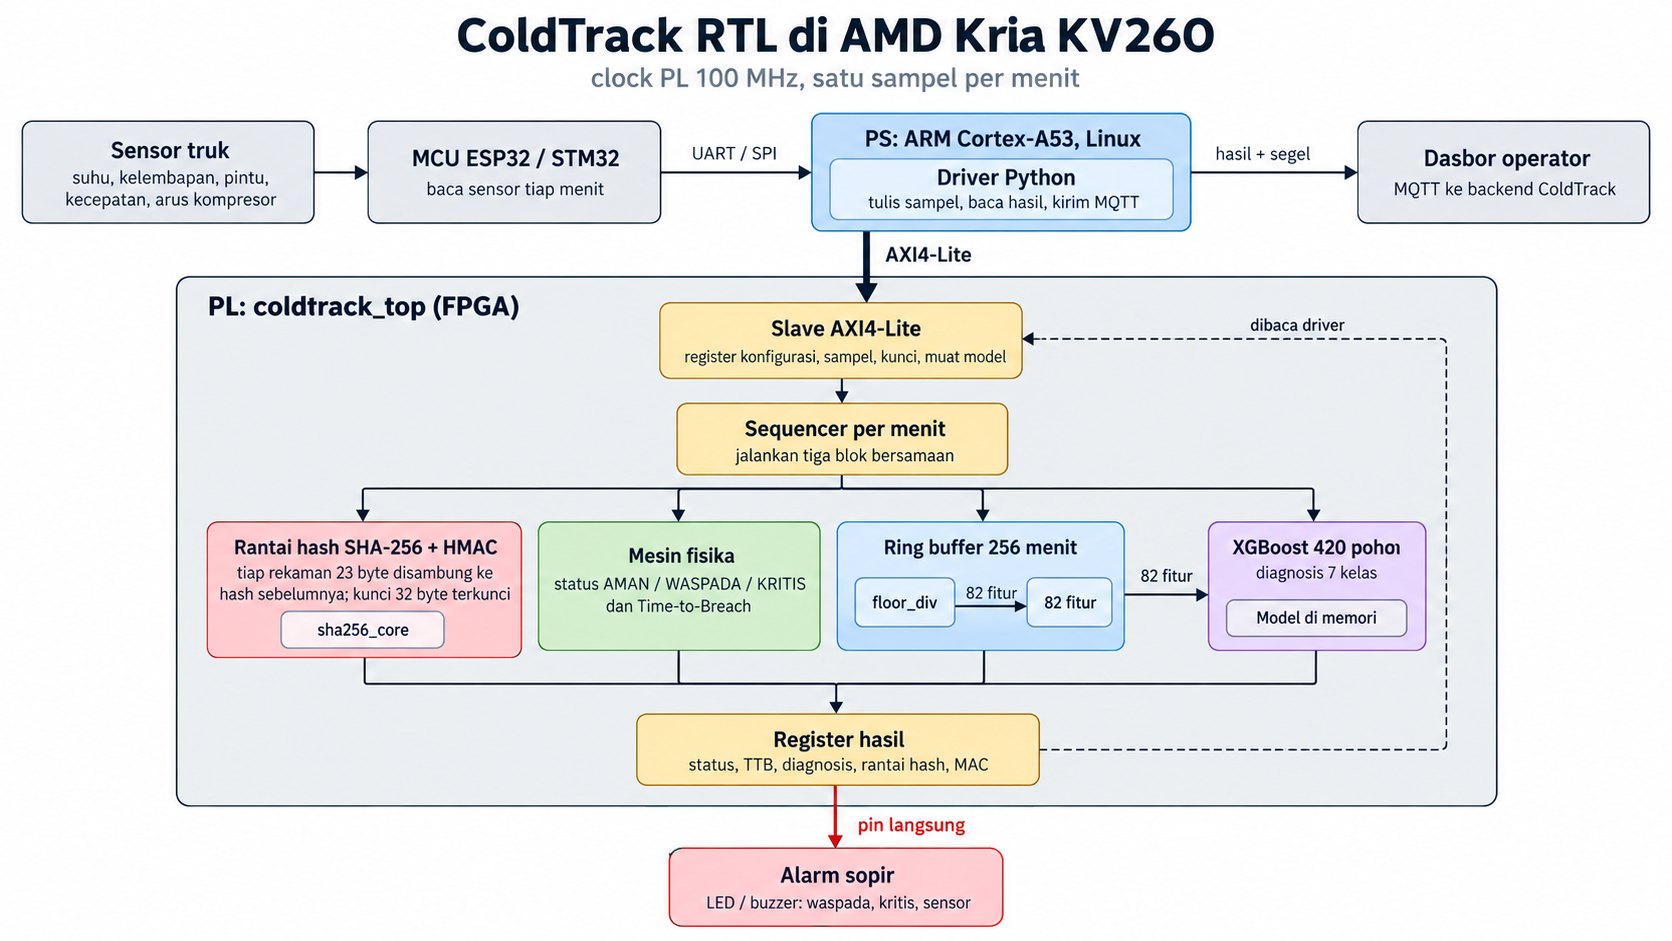
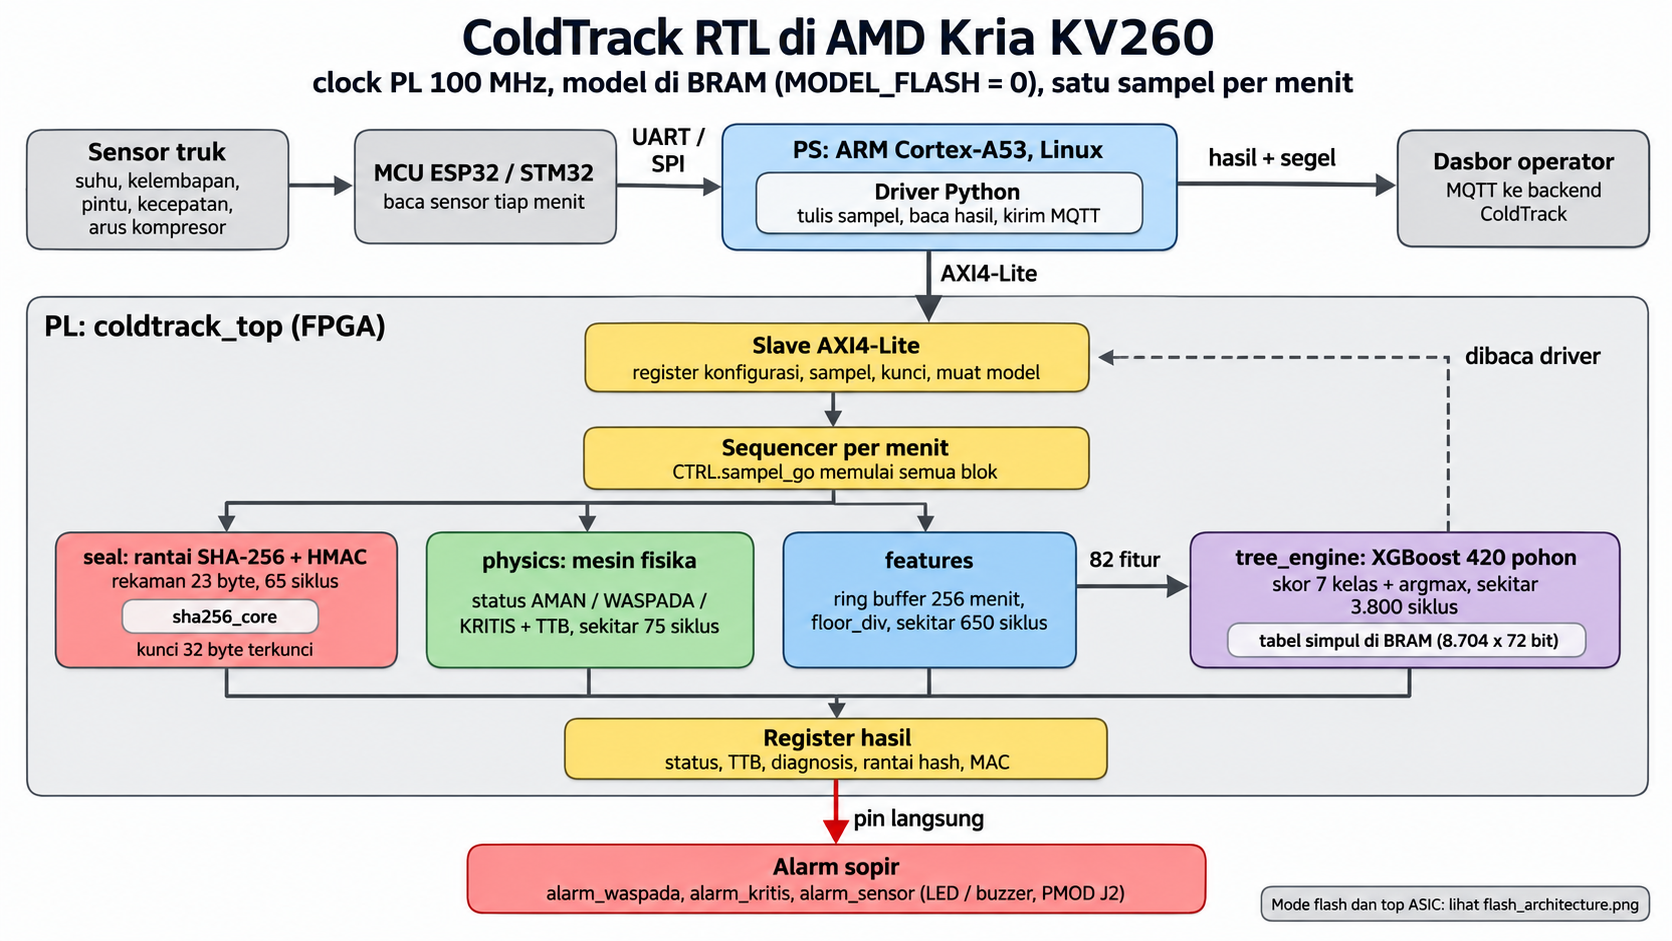
docs(hw): README root dan hw dirapikan, diagram arsitektur KV260 dan mode flash baru
README root memuat bagian chip ASIC SKY130 dan tautan Release asic-v1.0. Gambar
penempatan dan wrapper dipindah ke hw/asic/xgboost/figures dengan nama berbahasa Inggris.
Diagram mode flash dan top ASIC (coldtrack_spi) ditambahkan di hw/docs.

diff --git a/hw/README.md b/hw/README.md
@@ -1,9 +1,9 @@
 # ColdTrack RTL
 
-Chip ColdTrack untuk truk: segel data sensor (rantai SHA-256 + HMAC), mesin fisika (status
-AMAN/WASPADA/KRITIS + TTB), dan diagnosis tree ensemble (XGBoost 420 pohon), di belakang slave AXI4-Lite
-untuk ARM pada AMD Kria KV260. RTL ditulis dalam subset SystemVerilog tanpa primitive vendor, jadi bisa
-disintesis Vivado maupun Yosys.
+RTL chip ColdTrack untuk truk, diakses ARM pada AMD Kria KV260 lewat slave AXI4-Lite. Chip ini menyegel data
+sensor dengan rantai SHA-256 dan HMAC, menghitung status AMAN/WASPADA/KRITIS dan TTB dengan mesin fisika, dan
+mendiagnosis penyebab dengan XGBoost 420 pohon. RTL ditulis dalam subset SystemVerilog tanpa primitive vendor,
+sehingga bisa disintesis dengan Vivado maupun Yosys.
 
 | Folder | Isi |
 |---|---|
@@ -11,11 +11,12 @@ disintesis Vivado maupun Yosys.
 | `tb/` | Testbench cocotb (`test_*.py`), dijalankan lewat pytest |
 | `golden/` | Model acuan Python bilangan bulat; RTL harus sama bit per bit dengan model ini |
 | `scripts/` | Ekspor model XGBoost beku ke berkas memori; vektor uji hasil edge untuk backend; inventaris memori per mode (`asic_mem.py`) |
-| `driver/` | Driver: `chip.py` (`ChipAxi` lewat `/dev/mem` untuk KV260, `ChipSpi` lewat `spidev` untuk chip ASIC, keduanya belum diuji di perangkat; `ChipGolden` identik bit per bit dengan RTL) dan `edge_driver.py` (sampel ke chip, kirim bacaan + hasil tersegel lewat MQTT) |
+| `driver/` | `chip.py` (`ChipAxi` lewat `/dev/mem` untuk KV260 dan `ChipSpi` lewat `spidev` untuk chip ASIC, keduanya belum diuji di perangkat; `ChipGolden` identik bit per bit dengan RTL) dan `edge_driver.py` (kirim sampel ke chip, lalu kirim bacaan dan hasil tersegel lewat MQTT) |
+| `asic/` | Versi ASIC SKY130: RTL pengganti, layout LibreLane, wrapper Caravel ([`asic/README.md`](asic/README.md)) |
 | `model/` | Hasil ekspor: `nodes.mem`, `trees.mem`, `base.mem` per model, plus `flash.bin` dan `flash.sha256` untuk mode flash |
 | `bd/` | Pembungkus Verilog AXI4-Lite (`coldtrack_axil.v`) untuk block design Vivado + pin alarm PMOD |
 | `synth/` | Skrip Yosys (perkiraan) dan Vivado (implementasi out-of-context, block design KV260, laporan) |
-| `docs/` | Gambar arsitektur (`rtl_architecture.png`) dan block design Vivado (`vivado_block_design.png`/`.svg`) |
+| `docs/` | Gambar arsitektur KV260 (`rtl_architecture.png`), arsitektur mode flash dan top ASIC (`flash_architecture.png`), dan block design Vivado (`vivado_block_design.png`/`.svg`) |
 | `results/` | Laporan paritas golden vs float (JSON) dan laporan Vivado (`results/vivado/`) |
 
 ## Arsitektur
@@ -56,16 +57,18 @@ desimal membuat kelipatan 0,1 C data latih eksak, karena ambang pohon XGBoost se
 | M10 | `coldtrack_spi` (top ASIC: SPI + flash) | uji M9 diulang lewat SPI pada SCK = clk/8 (batas terburuk): 150 menit identik; frame yang terputus diabaikan |
 | M10 | Sapuan SPI (`tb/test_spi_sweep.py`) | 13 kecepatan x 4 offset fase, 8 ronde baca-tulis tiap konfigurasi: nol kesalahan sampai clk/3, gagal semua di clk/2,5 dan clk/2 (`results/spi_sweep.json`) |
 
-Catatan dari verifikasi: aturan "pintu terbuka, sisa waktu terburuk <= 30 menit" (alasan 4) di `engine.py`
-tidak pernah bisa menentukan status. Saat pintu terbuka kabin = max(ts10, suhu luar) >= suhu luar dan
-(x - t_hi)/(x - Tc) naik terhadap x, sehingga TTB biasa selalu <= TTB kasus terburuk dan aturan TTB lebih
-dulu memicu dengan status yang sama atau lebih tinggi. RTL tetap memuat aturan itu agar setara backend.
+Verifikasi menemukan bahwa aturan "pintu terbuka, sisa waktu terburuk <= 30 menit" (alasan 4) di `engine.py`
+tidak pernah menentukan status. Saat pintu terbuka, kabin = max(ts10, suhu luar) >= suhu luar dan
+(x - t_hi)/(x - Tc) naik terhadap x. Akibatnya TTB biasa selalu <= TTB kasus terburuk, dan aturan TTB lebih dulu
+memicu dengan status yang sama atau lebih tinggi. RTL tetap memuat aturan itu agar setara dengan backend.
 
 ## Mode flash untuk ASIC
 
 Di ASIC tidak ada BRAM, dan tabel simpul pohon (8.704 x 72 bit = 76,5 KiB) adalah bagian terbesar chip. Karena
 isinya konstanta, `MODEL_FLASH = 1` memindahkannya ke flash QSPI eksternal. Bawaannya tetap `MODEL_FLASH = 0`
 (BRAM), jadi build KV260 dan semua angka Vivado di bawah tidak berubah.
+
+![Mode flash dan top ASIC coldtrack_spi](docs/flash_architecture.png)
 
 ```
 coldtrack_top (MODEL_FLASH = 1)
@@ -77,16 +80,16 @@ coldtrack_top (MODEL_FLASH = 1)
                      status fisika, TTB, alarm, dan segel tetap jalan
 ```
 
-- **Image flash** (`golden/flash_image.py`): header, base score, lalu per pohon satu rekaman kepala dan
+- Image flash (`golden/flash_image.py`) berisi header dan base score, lalu per pohon satu rekaman kepala diikuti
   simpulnya. Format simpul sama dengan `nodes.mem`. Syarat aliran (simpul satu pohon berurutan, anak selalu
   sesudah induk) dicek saat ekspor. Model sekarang: 78.714 byte (#8) dan 80.172 byte (#7).
-- **Waktu:** satu inferensi membaca seluruh image, 316.313 siklus (3,2 ms pada 100 MHz dengan SCK 50 MHz).
-  Waktunya tetap, tidak bergantung pada kedalaman pohon. Jeda antar sampel 60 detik.
-- **HASH_MODEL** ditanam saat sintesis dari `model/<nama>/flash.sha256`. Ganti model berarti ganti hash, jadi
-  untuk prototipe model ikut terkunci di chip. Agar model bisa diperbarui di lapangan dibutuhkan tanda tangan
-  digital (kunci publik di chip), yang belum dibuat.
-- **Flash:** bit QE harus diset saat flash diprogram. `qspi_io_o`/`qspi_io_oe`/`qspi_io_i` disambungkan ke
-  penyangga tiga keadaan di pad.
+- Satu inferensi membaca seluruh image dalam 316.313 siklus (3,2 ms pada 100 MHz dengan SCK 50 MHz). Waktunya
+  tetap berapa pun kedalaman pohonnya, dan jeda antar sampel 60 detik.
+- `HASH_MODEL` ditanam saat sintesis dari `model/<nama>/flash.sha256`. Ganti model berarti ganti hash, jadi di
+  RTL ini model ikut terkunci di chip. Versi ASIC (`hw/asic/xgboost`) menggantinya dengan tag HMAC, sehingga
+  model baru yang ditandai kunci yang benar bisa dipasang tanpa chip baru.
+- Bit QE flash harus diset saat flash diprogram. `qspi_io_o`/`qspi_io_oe`/`qspi_io_i` disambungkan ke penyangga
+  tiga keadaan di pad.
 
 ### Antarmuka SPI (top ASIC `coldtrack_spi`)
 
@@ -99,8 +102,8 @@ mengaksesnya lewat 4 pin SPI. Total pin chip: clk, rst_n, SPI 4, QSPI 6, alarm 3
 | Tulis, 6 byte | `{1, 000, alamat[11:0]}` + data 32 bit | diabaikan |
 | Baca, 7 byte | `{0, 000, alamat[11:0]}` + 1 byte dummy + 4 byte bebas | data 32 bit di 4 byte terakhir |
 
-- SCK, CS, dan MOSI dicuplik clk chip lewat sinkroniser 2 FF, jadi **SCK paling cepat clk/8** (12,5 MHz pada
-  100 MHz, 6,25 MHz pada 50 MHz). Data ColdTrack sekitar 150 byte per menit, jadi batas ini tidak terasa.
+- SCK, CS, dan MOSI dicuplik clk chip lewat sinkroniser 2 FF, jadi SCK paling cepat clk/8 (12,5 MHz pada
+  100 MHz, 6,25 MHz pada 50 MHz). Data ColdTrack hanya sekitar 150 byte per menit, jauh di bawah batas ini.
 - Sapuan simulasi (`tb/test_spi_sweep.py`, termasuk rasio pecahan dan 4 offset fase) bebas kesalahan sampai
   clk/3 dan gagal mulai clk/2,5: MISO berganti 2 sampai 3 clk setelah tepi naik SCK, jadi satu periode SCK harus
   lebih dari sekitar 3 clk. Simulasi tidak memodelkan delay pad, jalur PCB, jitter, dan metastabilitas, jadi
@@ -122,7 +125,7 @@ Inventaris memori (`python -m hw.scripts.asic_mem`, Yosys `memory -nomap`, tanpa
 | ROM konstanta (tabel K SHA-256, konstanta fisika) | 0,3 KiB | 0,5 KiB |
 
 Mode flash memakai inti SHA-256 kedua untuk hash image, jadi tabel K ada dua. Inti ini bisa dibagi dengan
-`seal` bila luas logika perlu dihemat. Luas ASIC sebenarnya baru diketahui setelah sintesis dengan PDK.
+`seal` bila luas logika perlu dihemat. Luas hasil layout SKY130 ada di `hw/asic/xgboost/README.md`.
 
 ## Vivado KV260 (post-route, model #8)
 
@@ -139,10 +142,10 @@ UG1089 sebelum dipakai).
 | BRAM36 | 20 | 13,9 % |
 | DSP | 74 | 5,9 % |
 
-Tabel simpul `tree_engine` (8.704 x 72) memakai 18 BRAM dan ring buffer `features` (256 x 111) 2 BRAM.
-Sebelumnya keduanya jatuh ke LUTRAM (27.248 LUT, 12.069 sebagai memori) karena register baca BRAM diserap
-primitif lain: `simpul_q` menjadi register alamat LUTRAM `fitur`, `rd_q` menjadi register masukan DSP. Kini
-ada satu register tambahan di depan keduanya dan `rd_q` diberi `keep`.
+Tabel simpul `tree_engine` (8.704 x 72) memakai 18 BRAM dan ring buffer `features` (256 x 111) 2 BRAM. Agar
+Vivado memetakannya ke BRAM, ada satu register tambahan di depan keduanya dan `rd_q` diberi `keep`. Tanpa itu,
+register baca BRAM diserap primitif lain (`simpul_q` menjadi register alamat LUTRAM `fitur`, `rd_q` menjadi
+register masukan DSP), dan kedua memori jatuh ke LUTRAM: 27.248 LUT, 12.069 di antaranya sebagai memori.
 
 Timing `coldtrack_top` out-of-context per frekuensi (`synth/kv260_vivado.tcl`, laporan di
 `results/vivado/sweep/`). Daya adalah logika PL saja; daya total block design (termasuk PS) 2,86 W.
@@ -154,9 +157,10 @@ Timing `coldtrack_top` out-of-context per frekuensi (`synth/kv260_vivado.tcl`, l
 | 50 MHz | +9,12 ns | 0,348 W / 0,059 W |
 | 100 MHz | +0,637 ns (block design +1,351 ns) | 0,407 W / 0,118 W |
 
-Sebelum perbaikan, 100 MHz gagal tipis (WNS -0,146 ns) di pencarian TTB `physics` (selisih -> perkalian 82 bit
--> bandingkan, 23 level). Perkalian TTB dan aturan pintu kini melewati 3 register pipeline, jumlah `features`
-dihitung satu siklus sebelum digeser, dan `flat` diregister sebelum aturan sensor.
+Jalur terpanjang di 100 MHz adalah pencarian TTB `physics` (selisih, perkalian 82 bit, lalu pembandingan;
+23 level logika). Tanpa pipeline, jalur ini gagal tipis dengan WNS -0,146 ns. Karena itu perkalian TTB dan aturan
+pintu melewati 3 register pipeline, jumlah `features` dihitung satu siklus sebelum digeser, dan `flat`
+diregister sebelum aturan sensor.
 
 ## Resource KV260 (Yosys `synth_xilinx -family xcup`, model #8, sebelum pipeline)
 

diff --git a/README.md b/README.md
@@ -1,8 +1,9 @@
 # ColdTrack AI
 
 Sistem peringatan dini kegagalan rantai dingin untuk armada truk berpendingin. Chip FPGA di truk (AMD Kria KV260)
-menghitung status dan diagnosis sekali per menit, lalu backend di cloud memverifikasi hasilnya, menambahkan
-forecast suhu, dan menampilkannya di dasbor.
+menghitung status dan diagnosis sekali per menit. Backend di cloud lalu memverifikasi hasilnya, menambahkan
+forecast suhu, dan menampilkannya di dasbor. Mesin diagnosis yang sama juga sudah di-layout sebagai chip ASIC
+SKY130.
 
 Untuk setiap truk, dasbor menampilkan status (AMAN, WASPADA, atau KRITIS), Time-to-Breach (sisa menit sampai muatan
 melewati batas suhu), diagnosis penyebab, tindakan yang disarankan, insiden beserta audit trail, dan estimasi
@@ -19,13 +20,15 @@ sensor truk ─► KV260: segel SHA-256 + HMAC · mesin fisika · XGBoost 420 po
           backend: verifikasi segel ─► forecast GRU ─► database ─► dasbor
 ```
 
-- **Di truk:** chip menghitung status, TTB, dan diagnosis, lalu menyegel tiap rekaman dengan rantai hash dan
-  HMAC. Alarm sopir keluar langsung ke pin, jadi tetap menyala saat sinyal hilang. RTL dan hasil Vivado ada di
-  [hw/](hw/README.md).
-- **Di cloud:** backend memeriksa segel, memakai hasil chip tanpa menghitung ulang, dan menjalankan GRU hanya
-  untuk forecast suhu +15/+30/+60 menit. Truk tanpa chip dihitung penuh di cloud dengan komponen yang sama.
-- **Pembagian keputusan:** status dan TTB selalu datang dari mesin fisika. Model memberi forecast dan diagnosis
-  penyebab. Masalah sensor hanya dari aturan sensor.
+Di truk, chip menghitung status, TTB, dan diagnosis, lalu menyegel tiap rekaman dengan rantai hash dan HMAC. Alarm
+sopir keluar langsung ke pin, jadi tetap menyala saat sinyal hilang. RTL dan hasil Vivado ada di
+[hw/](hw/README.md).
+
+Di cloud, backend memeriksa segel dan memakai hasil chip apa adanya. GRU hanya dijalankan untuk forecast suhu
++15/+30/+60 menit. Truk tanpa chip dihitung penuh di cloud dengan komponen yang sama.
+
+Status dan TTB selalu berasal dari mesin fisika. Model memberi forecast dan diagnosis penyebab, sedangkan masalah
+sensor hanya ditentukan aturan sensor.
 
 Penjelasan lengkap: [docs/architecture.md](docs/architecture.md).
 
@@ -72,19 +75,37 @@ jadi di sana hanya halaman Simulasi yang berfungsi. Panduan demo: [docs/demo.md]
 
 ## Model
 
-- **Diagnosis dan forecast:** GRU v5 (3 lapis, hidden 128, dengan 6 fitur konteks trip) dalam ONNX. Keluarannya
-  7 kelas mode kegagalan dan forecast suhu t+15, t+30, dan t+60 menit.
-- **Status dan TTB:** mesin fisika, dengan XGBoost sebagai pembanding informasi untuk TTB.
-- **Di chip:** XGBoost 420 pohon untuk diagnosis dengan 82 fitur bilangan bulat.
-- **Hasil test:** Macro F1 0,820 dan PR-AUC 0,855 dengan label v5, yang memperlakukan pintu terbuka dan kejut
-  ambien sebagai kejadian sementara. Dengan label lama hasilnya 0,756 dan 0,812 (model v3: 0,668 dan 0,786).
-- **Keterbatasan:** semua data sintetis dari simulator fisika, tanpa logger truk sungguhan. Pengujian gangguan
-  menunjukkan beberapa kelas (reefer mati, pintu terbuka, prapendinginan buruk) dikenali dari satu sinyal yang
-  terlalu bersih di simulator, jadi dua di antaranya sekarang diputuskan aturan. Kelas `degradasi_bertahap` masih
-  lemah.
+| | |
+|---|---|
+| Diagnosis dan forecast | GRU v5 (3 lapis, hidden 128, dengan 6 fitur konteks trip) dalam ONNX; keluarannya 7 kelas mode kegagalan dan forecast suhu t+15, t+30, dan t+60 menit |
+| Status dan TTB | mesin fisika, dengan XGBoost sebagai pembanding informasi untuk TTB |
+| Di chip | XGBoost 420 pohon untuk diagnosis dengan 82 fitur bilangan bulat |
+| Hasil test | Macro F1 0,820 dan PR-AUC 0,855 dengan label v5, yang memperlakukan pintu terbuka dan kejut ambien sebagai kejadian sementara; dengan label lama 0,756 dan 0,812 (model v3: 0,668 dan 0,786) |
+
+Semua data berasal dari simulator fisika, belum dari logger truk sungguhan. Pengujian gangguan menunjukkan beberapa
+kelas (reefer mati, pintu terbuka, prapendinginan buruk) dikenali dari satu sinyal yang terlalu bersih di
+simulator, jadi dua di antaranya sekarang diputuskan aturan. Kelas `degradasi_bertahap` masih lemah.
 
 Angka, perbandingan versi, dan hasil pengujian gangguan ada di [docs/model_card.md](docs/model_card.md). Asal
 data dan rumus fisikanya di [docs/train_ai.md](docs/train_ai.md).
+
+## Chip ASIC (SKY130)
+
+Mesin fisika, fitur, dan XGBoost juga dibuat sebagai chip ASIC di proses SkyWater SKY130 dengan LibreLane. Chip
+berukuran 2,2 × 2,2 mm, berjalan pada 10 MHz, dan dihubungkan ke mikrokontroler lewat SPI. Model XGBoost dibaca
+dari flash QSPI dan diverifikasi dengan tag HMAC, jadi model bisa diganti tanpa membuat chip baru.
+
+| Pemeriksaan | Hasil |
+|---|---|
+| Signoff layout (DRC, LVS, XOR, antena) | 0 pelanggaran |
+| Timing | setup dan hold terpenuhi di 9 corner |
+| Gate-level simulation | lulus tanpa delay (bit-exact dengan golden) dan dengan SDF di corner tt, ss, ff |
+| Wrapper Caravel untuk ChipFoundry chipIgnite | signoff bersih, precheck 13/13 lulus |
+
+Berkas tapeout (GDS, LEF, netlist, SPEF) dan laporan layout ada di GitHub Release
+[`asic-v1.0`](https://github.com/Ajilaca/pakar-coldtrack/releases/tag/asic-v1.0). Kunci HMAC yang tertanam di
+layout ini adalah kunci lomba yang dipublikasikan, sehingga tapeout sungguhan memerlukan kunci baru dan layout
+ulang. Mesin GRU belum di-layout karena keterbatasan waktu. Rinciannya di [hw/asic/](hw/asic/README.md).
 
 ## Pengujian
 
@@ -122,3 +143,4 @@ Setiap folder punya `README.md` sendiri.
 - [Tata kelola AI](docs/ai_governance.md)
 - [Kontrak API](docs/api_contract.md), [kontrak perangkat](docs/device_contract.md), dan [asumsi armada](docs/fleet_assumptions.md)
 - [Menjalankan demo](docs/demo.md)
+- [Versi ASIC SKY130](hw/asic/README.md) dan [laporan layout](hw/asic/xgboost/laporan.pdf)

diff --git a/hw/asic/xgboost/README.md b/hw/asic/xgboost/README.md
@@ -19,7 +19,7 @@ pengganti sama dengan versi FPGA, jadi versi yang dipakai cukup dipilih lewat da
 | `tb/` | Tes cocotb versi ASIC (memakai modul tes dan golden dari `hw/tb`) dan GLS netlist final |
 | `layout/` | Config, SDC, dan skrip LibreLane; `layout/eco/` berisi skrip ECO (bagian Layout) |
 | `caravel/` | Wrapper Caravel: config dan skrip harden, RTL wrapper, metrik signoff, log precheck |
-| `gambar/` | Gambar penempatan sel `RUN_AK` dan layout wrapper WR4 (sama dengan Gambar 1 dan 3 di laporan) |
+| `figures/` | `fig1_placement_run_ak.png` (penempatan sel `RUN_AK`) dan `fig3_wrapper_wr4.png` (layout wrapper WR4), sama dengan Gambar 1 dan 3 di laporan |
 | `metrics.csv` | Metrik signoff layout final, GLS, dan Caravel |
 | `laporan.pdf` | Laporan proses layout |
 
